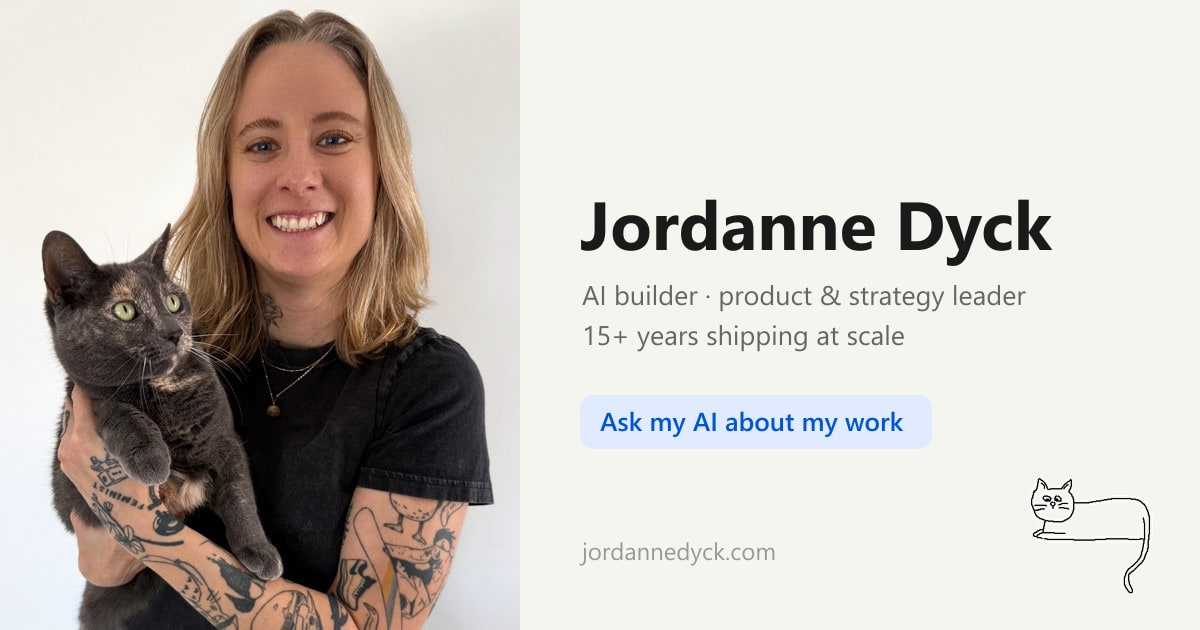
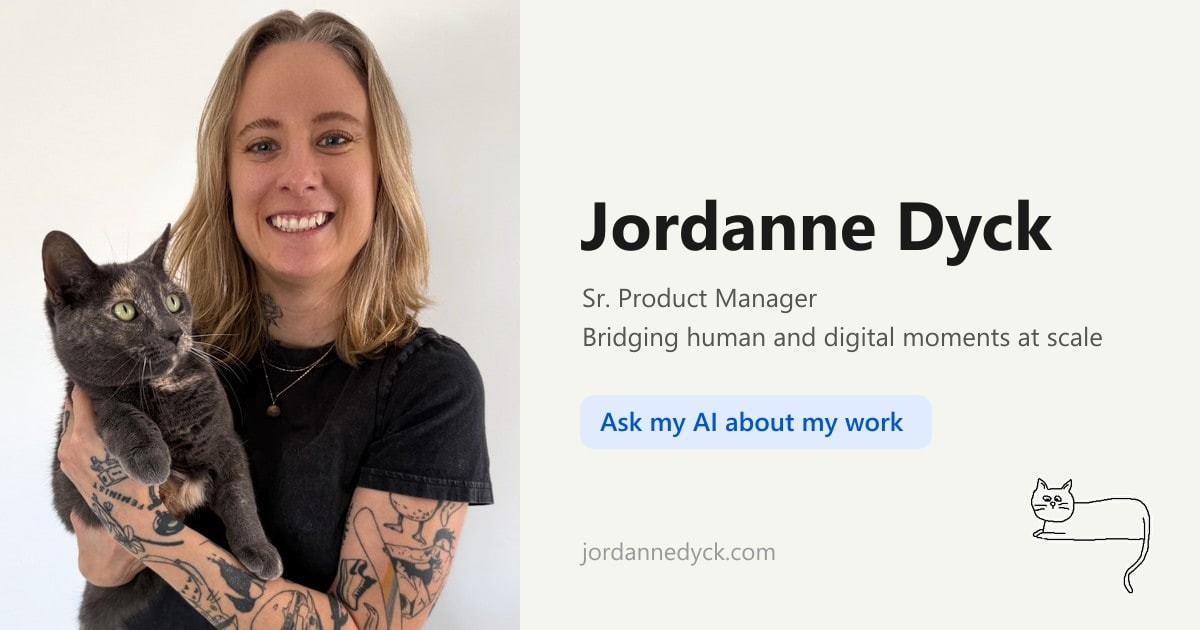
feat: reposition the site as Sr. Product Manager
- Titles, descriptions, structured data and the social preview image
  say "Sr. Product Manager building DTC products that bridge human
  and digital moments at scale", replacing "Product & AI builder"
  and "15+ years shipping"
- About: item 04 is now "Human and digital balance"; Sr. Product
  Manager added to "Open to"
- First three buttons: hands on keyboard, the career timeline, and
  Regimen Builder, so a first visit shows the timeline and a card

Changed region(s): [[0.4625, 0.4524, 0.925, 0.573]]

diff --git a/app/about/page.tsx b/app/about/page.tsx
@@ -10,9 +10,9 @@ import './about.css';
 // engines read, since the chat on the homepage is invisible to crawlers.
 // Keep it high level; the detail lives in the chatbot.
 
-const title = 'About Jordanne Dyck | Product and AI Builder';
+const title = 'About Jordanne Dyck | Sr. Product Manager';
 const description =
-  'Jordanne Dyck is a product and AI builder in Toronto. Six years at DECIEM (The Ordinary), most recently Director, Digital Product Management.';
+  'Jordanne Dyck is a Sr. Product Manager in Toronto who builds DTC products that bridge human and digital moments at scale. Six years at DECIEM (The Ordinary), most recently Director, Digital Product Management.';
 
 export const metadata: Metadata = {
   title,
@@ -38,8 +38,8 @@ const EXPERTISE = [
     text: "I built DECIEM's digital function from near zero, grew DTC sales to $150M+ annually, and took TikTok Shop from zero to $30M.",
   },
   {
-    name: 'Product growth as one system',
-    text: 'I treat acquisition, personalization, retention and loyalty as one system. Acquisition quality sets the retention ceiling, and retention economics set what acquisition can afford.',
+    name: 'Human and digital balance',
+    text: 'I decide where people guide and where technology does, then build both sides. At DECIEM that was Regimen Builder, the AI Personal Shopper built on it, and service automation that cut resolution time 86% while human agents kept the cases that needed them.',
   },
   {
     name: 'AI fluency',
@@ -77,9 +77,9 @@ export default function AboutPage() {
       <header className="hero">
         <div className="hero-inner">
           <h1>Jordanne Dyck</h1>
-          <span className="label">Product and AI builder &middot; Toronto</span>
+          <span className="label">Sr. Product Manager &middot; Toronto</span>
           <p className="lede">
-            I build AI products and lead digital product teams. I spent six years at DECIEM, the
+            I build DTC products that bridge human and digital moments at scale. I spent six years at DECIEM, the
             company behind The Ordinary, most recently as Director, Digital Product Management.
             Before that I was at Loblaw Digital and Shoppers Drug Mart.
           </p>
@@ -103,8 +103,8 @@ export default function AboutPage() {
         </section>
 
         <p className="open-to">
-          <strong>Open to:</strong> Director or Head of Product, Group or Staff Product Manager, and
-          digital consulting opportunities.
+          <strong>Open to:</strong> Sr. Product Manager, Director or Head of Product, Group or Staff
+          Product Manager, and digital consulting opportunities.
         </p>
 
         <div className="cta">

diff --git a/app/layout.tsx b/app/layout.tsx
@@ -33,11 +33,11 @@ export const viewport: Viewport = {
 
 export const metadata: Metadata = {
   metadataBase: new URL('https://jordannedyck.com'),
-  title: 'Jordanne Dyck | Product & AI Builder',
-  description: 'Product & AI Builder with 15+ years shipping at scale. From growth marketing to production AI — bridging technical product development with business strategy and customer experience.',
+  title: 'Jordanne Dyck | Sr. Product Manager',
+  description: 'Sr. Product Manager building DTC products that bridge human and digital moments at scale. Six years at DECIEM (The Ordinary), from Head of Digital to Director, Digital Product Management.',
   keywords: [
     'Jordanne Dyck',
-    'AI Builder',
+    'Sr. Product Manager',
     'Product Strategy',
     'Agentic AI',
     'Digital Transformation',
@@ -56,8 +56,8 @@ export const metadata: Metadata = {
     type: 'website',
     locale: 'en_US',
     url: 'https://jordannedyck.com',
-    title: 'Jordanne Dyck | Product & AI Builder',
-    description: 'Product & AI Builder — 15+ years shipping at scale. From growth marketing to production AI.',
+    title: 'Jordanne Dyck | Sr. Product Manager',
+    description: 'Sr. Product Manager building DTC products that bridge human and digital moments at scale.',
     siteName: 'Jordanne Dyck Portfolio',
     images: [
       {
@@ -70,8 +70,8 @@ export const metadata: Metadata = {
   },
   twitter: {
     card: 'summary_large_image',
-    title: 'Jordanne Dyck | Product & AI Builder',
-    description: 'Product & AI Builder — 15+ years shipping at scale. From growth marketing to production AI.',
+    title: 'Jordanne Dyck | Sr. Product Manager',
+    description: 'Sr. Product Manager building DTC products that bridge human and digital moments at scale.',
     images: ['/og-image.jpg'],
   },
   robots: {
@@ -117,8 +117,8 @@ export default function RootLayout({
               '@type': 'Person',
               '@id': 'https://jordannedyck.com/#person',
               name: 'Jordanne Dyck',
-              jobTitle: 'Product & AI Builder',
-              description: 'Product & AI Builder with 15+ years shipping at scale. Bridges technical product development with business strategy and customer experience.',
+              jobTitle: 'Sr. Product Manager',
+              description: 'Sr. Product Manager building DTC products that bridge human and digital moments at scale.',
               url: 'https://jordannedyck.com',
               email: 'jordanne.dyck@gmail.com',
               sameAs: [

diff --git a/lib/suggested-questions.ts b/lib/suggested-questions.ts
@@ -1,9 +1,13 @@
 // The suggested-question buttons under the chat box (app/page.tsx). Shared with
 // the dashboard so rows logged before buttons reported `source` can still be
 // matched by text. Editing a question here changes that match for old rows.
+// The first three show on arrival. The second always shows the career timeline
+// (asksForTimeline in lib/timeline.ts); the third should show a project card.
 export const SUGGESTED_QUESTIONS = [
-  "How has Jordanne demonstrated systems thinking?",
   "What did Jordanne build herself, hands on keyboard?",
+  "Walk me through Jordanne's career timeline",
+  "How did Regimen Builder help new customers know where to start?",
+  "How has Jordanne demonstrated systems thinking?",
   "Why did Jordanne turn the store off for Black Friday?",
   "How does Jordanne prove an idea before the data exists?",
   "Why does Jordanne say your next customer never sees your interface?",
